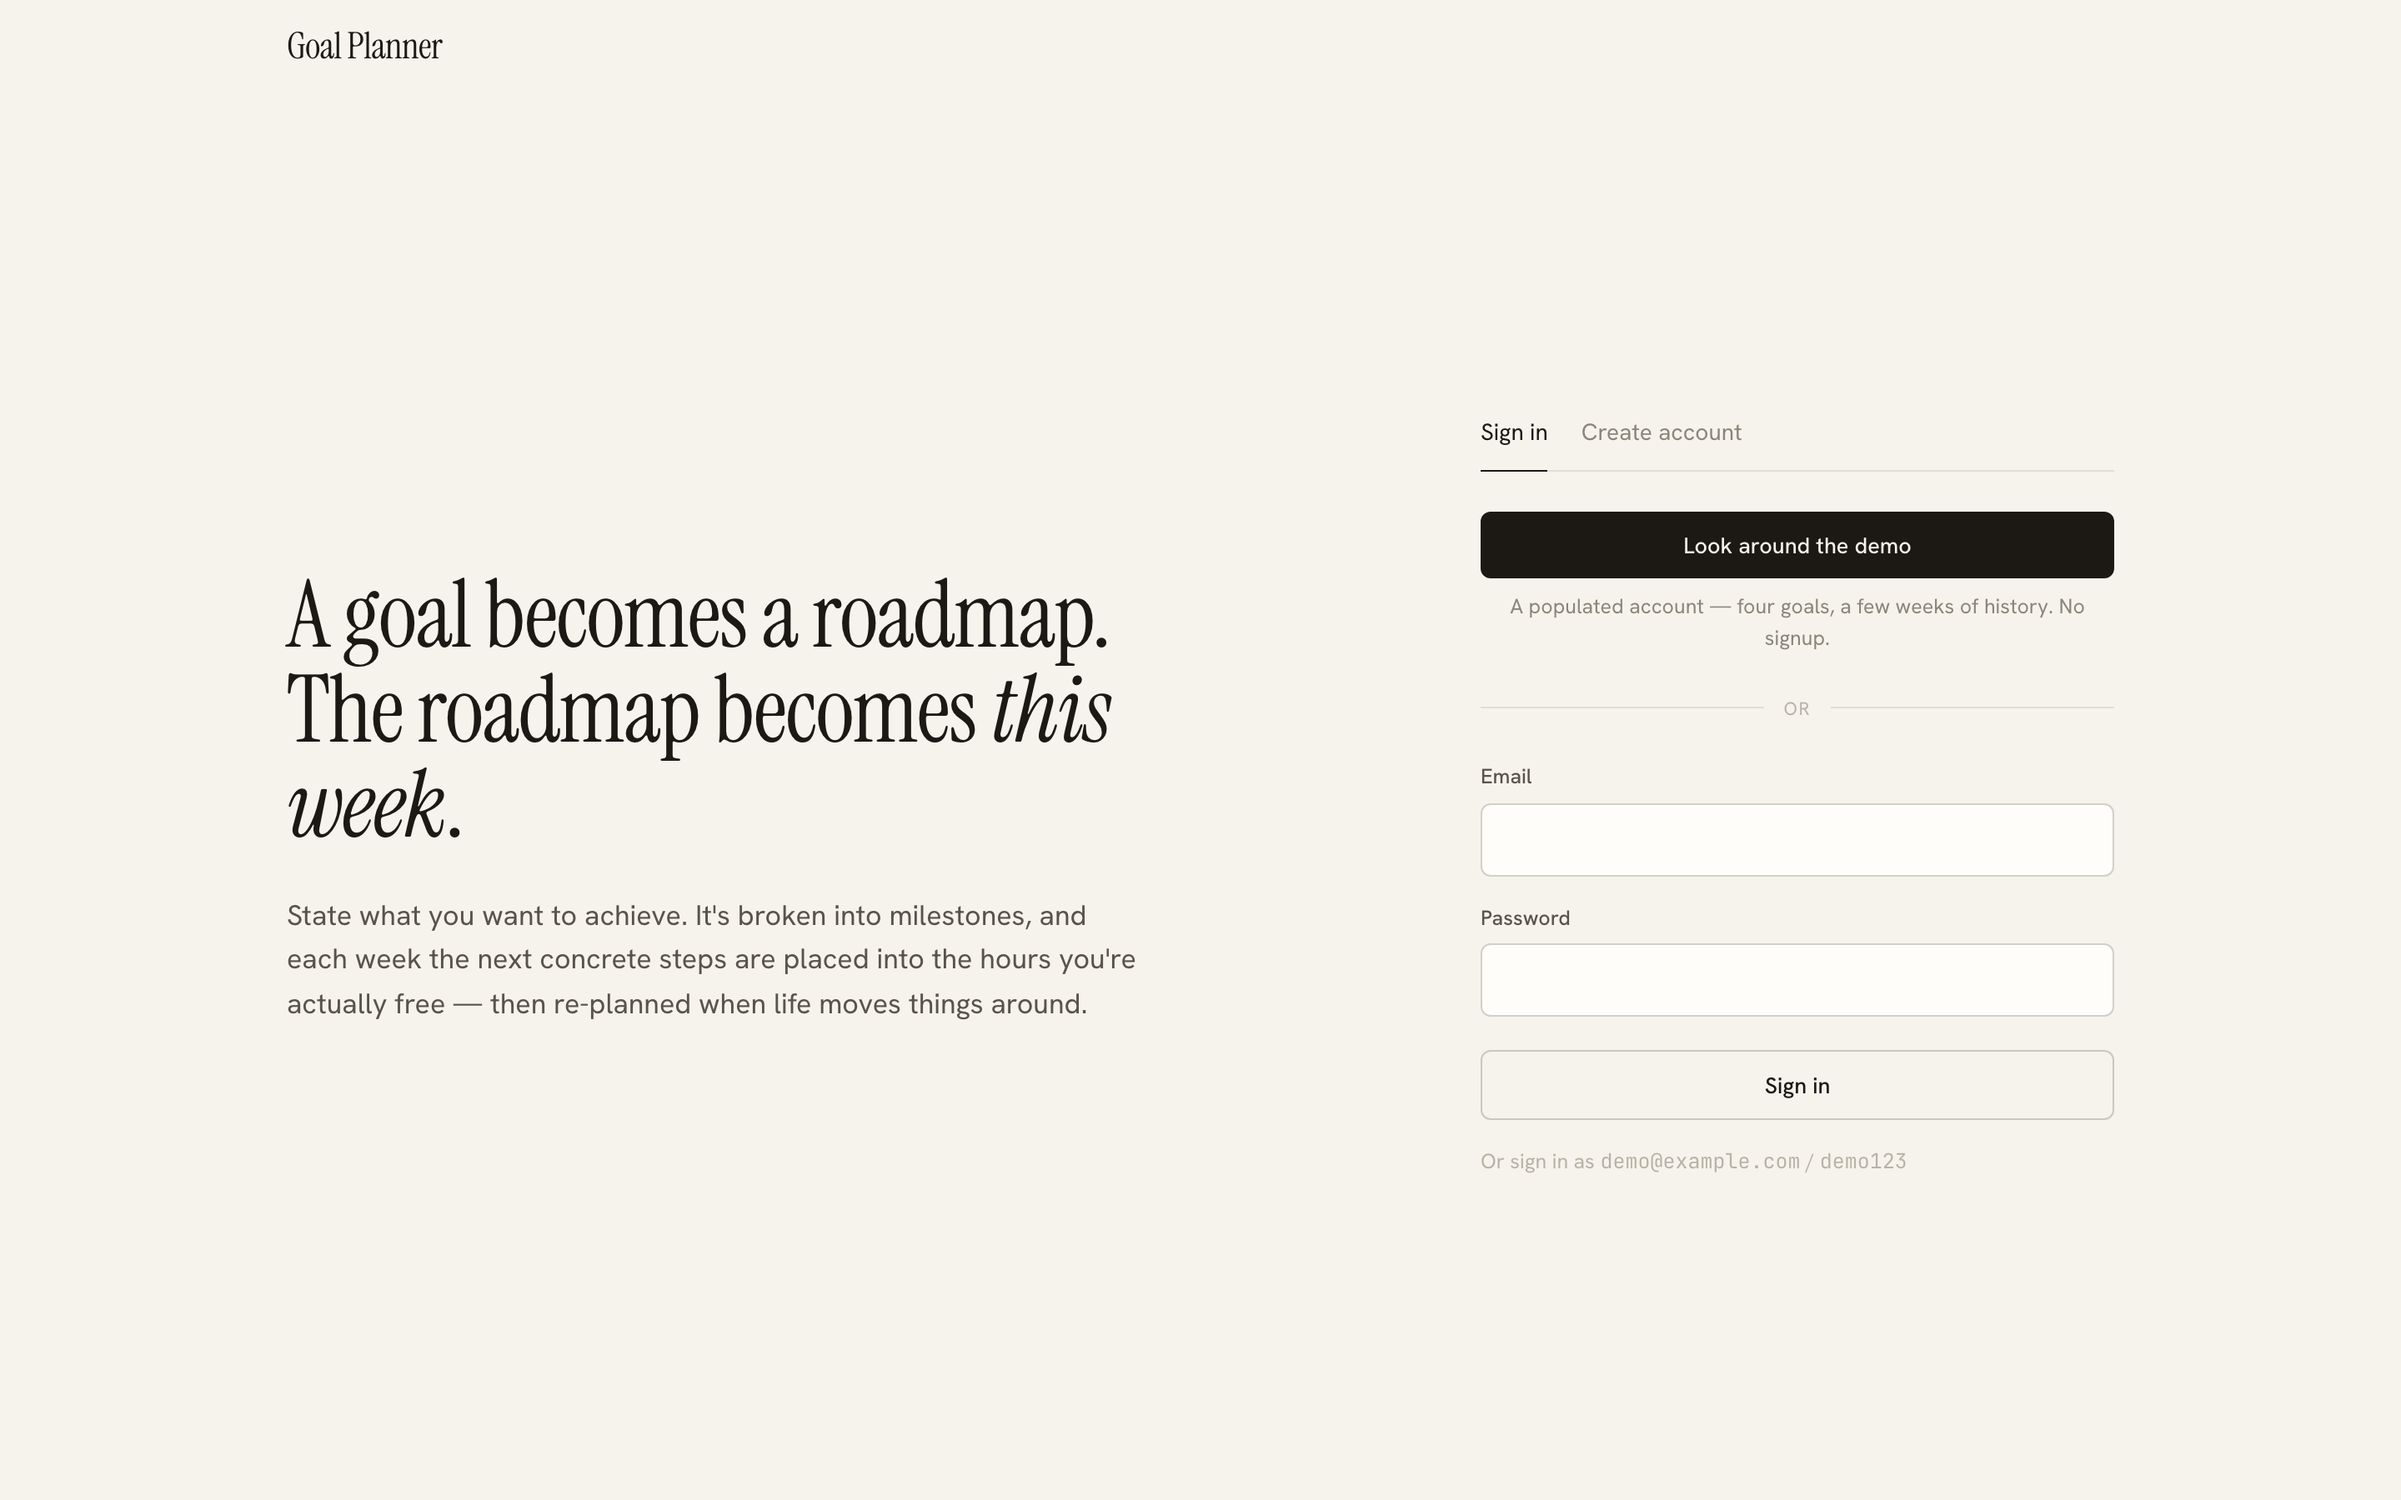
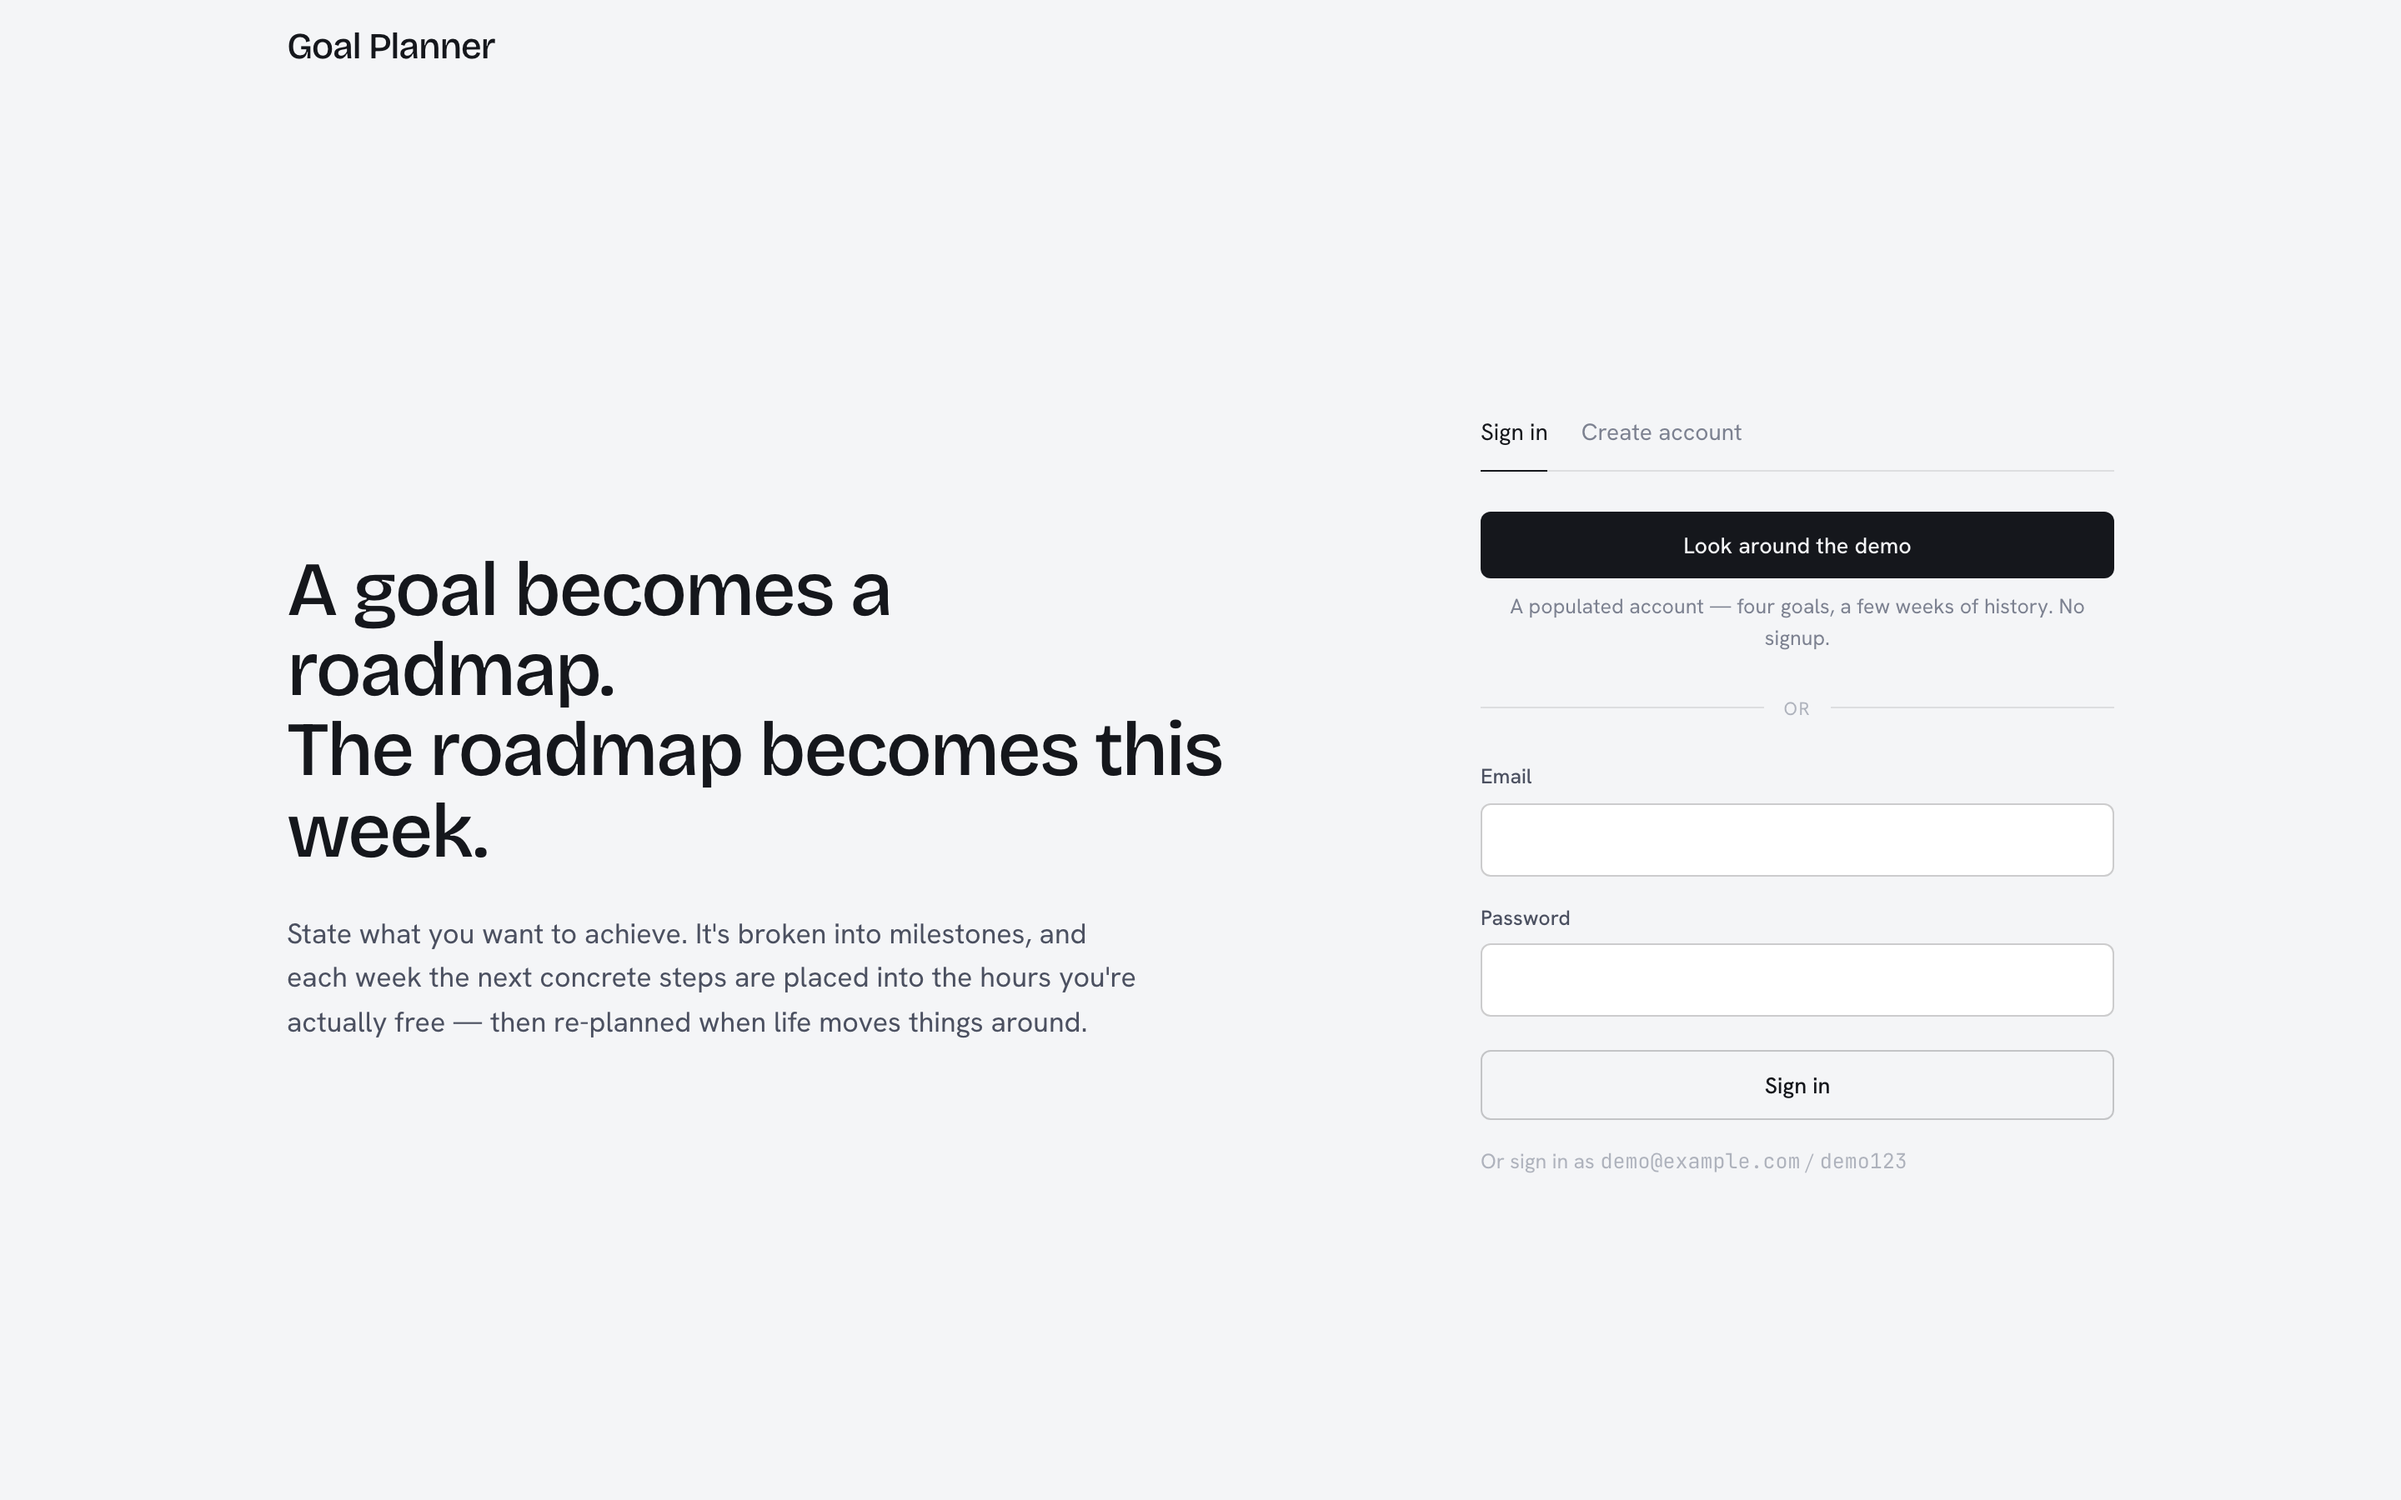
design: cool neutral palette, Bricolage Grotesque display face
Warm paper plus a serif read as someone else's house style. Same
structure, same rule that goal hues are the only color.

Changed region(s): [[0.0938, 0.3733, 0.5, 0.6844], [0.125, 0.0, 0.1875, 0.0622]]

diff --git a/tailwind.config.ts b/tailwind.config.ts
@@ -3,8 +3,8 @@ import type { Config } from "tailwindcss";
 /**
  * Design tokens.
  *
- * One light theme on warm paper. The interface itself is monochrome — ink on
- * paper, hairline rules — and the only color anywhere comes from goal hues
+ * One light theme on cool, neutral paper. The interface itself is monochrome —
+ * ink on paper, hairline rules — and the only color anywhere comes from goal hues
  * (lib/colors.ts). That restraint is the point: when four things are colored,
  * you can tell them apart; when everything is, nothing stands out.
  */
@@ -18,27 +18,27 @@ const config: Config = {
     extend: {
       colors: {
         paper: {
-          DEFAULT: "#f6f3ec",
-          2: "#eeeae0",
-          3: "#e6e1d5",
+          DEFAULT: "#f4f5f7",
+          2: "#e9ebef",
+          3: "#dcdfe5",
         },
-        surface: "#fffdf9",
+        surface: "#ffffff",
         rule: {
-          DEFAULT: "rgba(28,25,20,0.10)",
-          2: "rgba(28,25,20,0.20)",
+          DEFAULT: "rgba(21,23,28,0.10)",
+          2: "rgba(21,23,28,0.22)",
         },
         ink: {
-          DEFAULT: "#1c1915",
-          2: "#58534b",
-          3: "#8b857a",
-          4: "#b8b2a6",
+          DEFAULT: "#15171c",
+          2: "#4b5060",
+          3: "#7c8190",
+          4: "#aeb2bc",
         },
-        danger: "#b4483a",
+        danger: "#c0392b",
       },
       fontFamily: {
         sans: ["var(--font-sans)", "system-ui", "sans-serif"],
         mono: ["var(--font-mono)", "ui-monospace", "monospace"],
-        display: ["var(--font-display)", "Georgia", "serif"],
+        display: ["var(--font-display)", "system-ui", "sans-serif"],
       },
       borderRadius: {
         sm: "4px",

diff --git a/components/WeekView.tsx b/components/WeekView.tsx
@@ -279,7 +279,7 @@ export default function WeekView({ initial, goals, streak, todayISO }: Props) {
               <div
                 key={day.iso}
                 className="flex items-baseline gap-[6px] border-l border-rule px-2 pb-2 pt-3"
-                style={{ borderTop: day.isToday ? "2px solid #1c1915" : "2px solid transparent", marginTop: -1 }}
+                style={{ borderTop: day.isToday ? "2px solid #15171c" : "2px solid transparent", marginTop: -1 }}
               >
                 <span className={`text-[12px] font-medium ${day.isToday ? "text-ink" : closed ? "text-ink-4" : "text-ink-3"}`}>
                   {DOW[day.dow]}
@@ -512,10 +512,10 @@ function TaskRow({
           onClick={onToggle}
           aria-label={task.completed ? "Mark not done" : "Mark done"}
           className="mt-[3px] flex h-[16px] w-[16px] flex-shrink-0 items-center justify-center rounded-sm border transition-colors"
-          style={{ borderColor: task.completed ? color : "rgba(28,25,20,0.35)", background: task.completed ? color : "transparent" }}
+          style={{ borderColor: task.completed ? color : "rgba(21,23,28,0.35)", background: task.completed ? color : "transparent" }}
         >
           {task.completed && (
-            <svg width="10" height="10" viewBox="0 0 10 10" fill="none" stroke="#f6f3ec" strokeWidth="1.8" strokeLinecap="round" strokeLinejoin="round">
+            <svg width="10" height="10" viewBox="0 0 10 10" fill="none" stroke="#f4f5f7" strokeWidth="1.8" strokeLinecap="round" strokeLinejoin="round">
               <path d="M2 5.2 L4.2 7.4 L8 3.2" />
             </svg>
           )}

diff --git a/components/RoadmapTimeline.tsx b/components/RoadmapTimeline.tsx
@@ -106,10 +106,10 @@ function Dot({ state, color }: { state: "done" | "active" | "upcoming"; color: s
   }
   if (state === "active") {
     return (
-      <span className="flex h-[11px] w-[11px] items-center justify-center rounded-full border-[1.5px]" style={{ borderColor: color, background: "#f6f3ec" }}>
+      <span className="flex h-[11px] w-[11px] items-center justify-center rounded-full border-[1.5px]" style={{ borderColor: color, background: "#f4f5f7" }}>
         <span className="h-[5px] w-[5px] rounded-full" style={{ background: color }} />
       </span>
     );
   }
-  return <span className="block h-[11px] w-[11px] rounded-full border-[1.5px] border-ink-4" style={{ background: "#f6f3ec" }} />;
+  return <span className="block h-[11px] w-[11px] rounded-full border-[1.5px] border-ink-4" style={{ background: "#f4f5f7" }} />;
 }

diff --git a/components/CompactTaskList.tsx b/components/CompactTaskList.tsx
@@ -30,7 +30,7 @@ function Row({ task, hue }: { task: CompactTask; hue: number }) {
         onClick={toggle}
         aria-label={completed ? "Mark not done" : "Mark done"}
         className="flex h-[14px] w-[14px] flex-shrink-0 items-center justify-center rounded-sm border transition-colors"
-        style={{ borderColor: completed ? color : "rgba(28,25,20,0.35)", background: completed ? color : "transparent" }}
+        style={{ borderColor: completed ? color : "rgba(21,23,28,0.35)", background: completed ? color : "transparent" }}
       />
       <span className="w-[52px] flex-shrink-0 font-mono text-[12px] text-ink-3">{task.day}</span>
       <span className="w-[42px] flex-shrink-0 font-mono text-[12px] text-ink-4">{task.time || "—"}</span>

diff --git a/app/layout.tsx b/app/layout.tsx
@@ -1,5 +1,5 @@
 import type { Metadata } from "next";
-import { Hanken_Grotesk, Instrument_Serif, JetBrains_Mono } from "next/font/google";
+import { Bricolage_Grotesque, Hanken_Grotesk, JetBrains_Mono } from "next/font/google";
 import "./globals.css";
 import { Providers } from "./providers";
 
@@ -13,11 +13,10 @@ const mono = JetBrains_Mono({
   weight: ["400", "500"],
   variable: "--font-mono",
 });
-// Display face for titles only. Everything else is the grotesk.
-const display = Instrument_Serif({
+// Display face for titles only. Everything else is Hanken.
+const display = Bricolage_Grotesque({
   subsets: ["latin"],
-  weight: ["400"],
-  style: ["normal", "italic"],
+  weight: ["500", "600"],
   variable: "--font-display",
 });
 

diff --git a/components/AuthCard.tsx b/components/AuthCard.tsx
@@ -79,10 +79,10 @@ export default function AuthCard({ mode }: { mode: "login" | "signup" }) {
       <div className="grid flex-1 grid-cols-1 items-center gap-16 py-16 lg:grid-cols-[1.2fr_1fr]">
         {/* Pitch */}
         <div>
-          <h1 className="display text-[56px] leading-[1.02]">
+          <h1 className="display text-[46px] leading-[1.05]">
             A goal becomes a roadmap.
             <br />
-            The roadmap becomes <em>this week</em>.
+            The roadmap becomes this week.
           </h1>
           <p className="mt-6 max-w-[520px] text-[17px] leading-[1.55] text-ink-2">
             State what you want to achieve. It&apos;s broken into milestones, and each week the next

diff --git a/components/AvailabilityForm.tsx b/components/AvailabilityForm.tsx
@@ -88,7 +88,7 @@ export default function AvailabilityForm() {
               aria-checked={d.on}
               aria-label={`Toggle ${d.name}`}
               className="relative h-[20px] w-[34px] flex-shrink-0 rounded-full transition-colors"
-              style={{ background: d.on ? "#1c1915" : "rgba(28,25,20,0.18)" }}
+              style={{ background: d.on ? "#15171c" : "rgba(21,23,28,0.18)" }}
             >
               <span className="absolute top-[3px] h-[14px] w-[14px] rounded-full bg-paper transition-[left]" style={{ left: d.on ? 17 : 3 }} />
             </button>

diff --git a/lib/colors.ts b/lib/colors.ts
@@ -2,7 +2,7 @@
  * Per-goal accent color.
  *
  * Goals share lightness and chroma (OKLCH) and differ only in hue, so any
- * number of goals stay harmonious against the paper background. Every colored
+ * number of goals stay harmonious against the neutral background. Every colored
  * element in the interface — dots, bars, calendar blocks — derives from the
  * goal's stored hue, and nothing else in the UI carries color. That is
  * deliberate: the goals are the only thing worth distinguishing.

diff --git a/components/Toast.tsx b/components/Toast.tsx
@@ -25,7 +25,7 @@ export function ToastProvider({ children }: { children: React.ReactNode }) {
         <div
           role="status"
           className="fixed bottom-6 left-1/2 z-[100] -translate-x-1/2 rounded bg-ink px-4 py-[10px] text-[13.5px] text-paper"
-          style={{ boxShadow: "0 8px 24px rgba(28,25,20,0.18)" }}
+          style={{ boxShadow: "0 8px 24px rgba(21,23,28,0.18)" }}
         >
           {toast}
         </div>

diff --git a/app/globals.css b/app/globals.css
@@ -27,9 +27,9 @@
 }
 
 @layer components {
-  /* Page and section titles. Serif, set large, tight. */
+  /* Page and section titles. Set large, medium weight, tight. */
   .display {
-    @apply font-display font-normal tracking-[-0.015em];
+    @apply font-display font-medium tracking-[-0.03em];
   }
 
   /* Small-caps label above a block of content. */

diff --git a/README.md b/README.md
@@ -180,7 +180,7 @@ roadmaps, current week, and reviews come from the real agents instead.
 | Testing | Vitest — 76 unit tests, no database or network required |
 | CI | GitHub Actions — typecheck, tests, production build |
 | Hosting | Vercel + Neon Postgres |
-| Design | One light theme on warm paper; the only color in the interface is per-goal OKLCH hue |
+| Design | One light, neutral theme; the only color in the interface is per-goal OKLCH hue |
 
 This is LLM *integration* and application engineering — prompt design, structured
 output enforcement, validation, and failure handling around a hosted model API.
